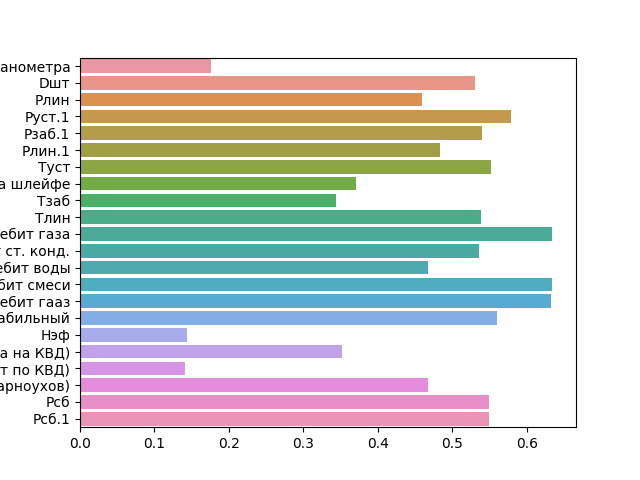
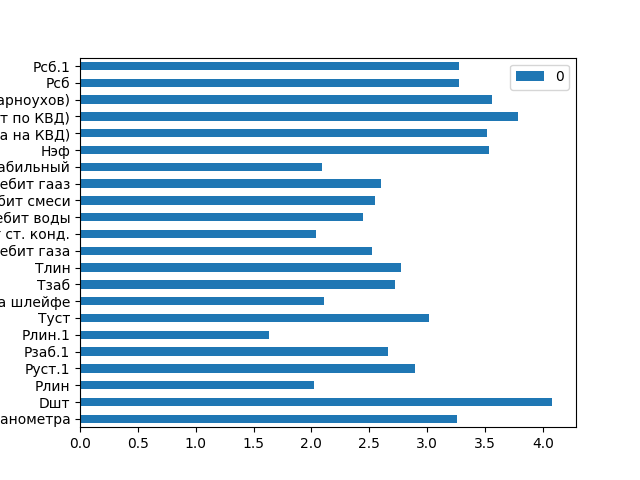
fixed gain ratio formula

diff --git a/dataset_analysis/dataset_analysis.py b/dataset_analysis/dataset_analysis.py
@@ -8,6 +8,72 @@ import pandas as pd
 import seaborn as sns
 from pandas import DataFrame
 
+def info(df: pd.DataFrame, sub_df: pd.DataFrame, target_name: str) -> float:
+    if df[target_name].nunique() == 0:
+        return 0
+    interval_count = 1 + int(math.log(df[target_name].nunique(), 2))
+    left_border = df[target_name].min()
+    right_border = df[target_name].max()
+    step = (right_border - left_border) / interval_count
+
+    vals_in_interval = [0] * interval_count
+    value_counts = sub_df[target_name].value_counts()
+    unq_vals = list(value_counts.index)
+    if step != 0:
+        for i in range(len(unq_vals)):
+            interval_index = int((unq_vals[i] - left_border) // step)
+            if interval_index == interval_count:
+                interval_index -= 1
+            vals_in_interval[interval_index] += value_counts[unq_vals[i]]
+
+    s = 0.0
+    for val in value_counts:
+        tmp = val / sub_df[target_name].count()
+        if tmp != 0:
+            s += tmp * math.log(tmp, 2)
+    return -s
+
+
+def info_a(df: pd.DataFrame, attr_name: str, target_name: str) -> float:
+    if df[attr_name].nunique() == 0:
+        return 0
+    interval_count = 1 + int(math.log(df[attr_name].nunique(), 2))
+    left_border = df[attr_name].min()
+    right_border = df[attr_name].max()
+    step = (right_border - left_border) / interval_count
+    left_borders = []
+    for i in range(interval_count):
+        left_borders.append(left_border + i * step)
+
+    s = 0.0
+    for border in left_borders:
+        sub_df = df.loc[((df[attr_name] >= border) & (df[attr_name] < border + step)) |
+                        (df[attr_name] == right_border)]
+        s += info(df, sub_df, target_name)
+    return s
+
+
+def split_info(df: pd.DataFrame, attr_name: str) -> float:
+    s = 0.0
+    for val in df[attr_name].value_counts():
+        tmp = val / df[attr_name].count()
+        s += tmp * math.log(tmp, 2)
+    return s
+
+
+def gain(df: pd.DataFrame, attr_name: str, target_name: str) -> float:
+    return info(df, df, target_name) - info_a(df, attr_name, target_name)
+
+
+def gain_ratio(df: pd.DataFrame, attr_name: str, target_name: str) -> float:
+    return gain(df, attr_name, target_name) / split_info(df, attr_name)
+
+def data_set_gain_ratio(df: pd.DataFrame, target_name: str, num_target_columns: int) -> pd.Series:
+    gain_ratio_list = []
+    for col_name in df.columns[0:-num_target_columns]:
+        gain_ratio_list.append(gain_ratio(df, col_name, target_name))
+    return pd.Series(gain_ratio_list, index=df.columns[0:-num_target_columns])
+
 PRINT_ALLOWED = True
 MAX_MISSES_PERCENTS = 45
 COLS = 1
@@ -96,75 +162,6 @@ def fill_blanks(df: DataFrame, df_stat: DataFrame, targets: List[str]) -> DataFr
                 df[col][i] = df_stat[col]['Median']
     return df
 
-
-# returns list like [a, b, c, d] with intervals [a, b], [b, c], [c, d]
-def get_sturges_intervals(minimum: float, maximum: float, count: int) -> list[float]:
-    ints_count = 1 + math.floor(math.log2(count))
-    if ints_count < 1 or maximum <= minimum:
-        return []
-    current = minimum
-    int_len = (maximum - minimum) / ints_count
-    ints = [minimum]
-    for i in range(ints_count):
-        current += int_len
-        ints.append(current)
-    ints[ints_count] = maximum
-    return ints
-
-
-def get_interval_id(ints: list[float], val: float):
-    ints_count = len(ints) - 1
-    for i in range(1, ints_count + 1):
-        if val <= ints[i]:
-            return i
-
-
-# calculates (H(y) - H(y|x)) / SplitInformation(y) ,
-# where x, y -- names of columns in the data frame
-def calc_information_gain_ratio(df: DataFrame, df_stat: DataFrame, y: str, x: str) -> float:
-    samples_count = len(df[x])
-    # calculating probabilities...
-    x_ints = get_sturges_intervals(df_stat[x]['Minimum'], df_stat[x]['Maximum'], samples_count)
-    # ex: [3276.0, 3360.5, 3445.0, 3529.5, 3614.0, 3698.5, 3783.0, 3867.5, 3952.0]
-    y_ints = get_sturges_intervals(df_stat[y]['Minimum'], df_stat[y]['Maximum'], samples_count)
-    ints_count = len(x_ints) - 1
-    p_x = {i: 0 for i in range(1, ints_count + 1)}
-    p_y = {i: 0 for i in range(1, ints_count + 1)}
-    for val in df[x].values:
-        p_x[get_interval_id(x_ints, val)] += 1
-    # ex: {1: 17, 2: 14, 3: 11, 4: 70, 5: 69, 6: 0, 7: 0, 8: 3}
-    for val in df[y].values:
-        p_y[get_interval_id(y_ints, val)] += 1
-    # scoring target entropy...
-    h_y = 0
-    for y_count in p_y:
-        current_p_y = y_count / samples_count
-        h_y -= current_p_y * math.log2(current_p_y)
-    # scoring conditional probabilities...
-    h_yx = 0
-    p_y_x = {i: {j: 0 for j in p_y.keys()} for i in p_x.keys()}
-    for row_num in df[x].keys():
-        x_int = get_interval_id(x_ints, df[x][row_num])
-        p_y_x[x_int][get_interval_id(y_ints, df[y][row_num])] += 1
-    for x_int in p_x.keys():
-        current_p_x = p_x[x_int] / samples_count
-        entropy = 0
-        for val in p_y_x[x_int].values():
-            if val == 0:
-                continue
-            current_p_y = val / samples_count
-            entropy -= current_p_y * math.log2(current_p_y)
-        h_yx += current_p_x * entropy
-    # calculating split information(y)
-    si = 0
-    for y_int in p_y.keys():
-        fraction = p_y[y_int] / samples_count
-        if fraction == 0:
-            continue
-        si -= fraction * math.log2(fraction)
-    return (h_y - h_yx) / si
-
-
 def combine_kgf(df: DataFrame) -> DataFrame:
     for row_num in df['КГФ.1'].keys():
         if not np.isnan(df['КГФ.1'][row_num]):
@@ -188,10 +185,8 @@ def remove_empty_target(df: DataFrame, targets: List[str]) -> DataFrame:
 
 
 def show_gain_ratio(df: DataFrame, df_stat: DataFrame, target: str, targets: list[str]):
-    df_igr = pd.DataFrame({
-        key: [calc_information_gain_ratio(df, df_stat, target, key)] for key in df.keys() if not targets.__contains__(key)
-    })
-    sns.barplot(df_igr, orient='horizontal') # Рсб, Рсб.1
+    df_igr = data_set_gain_ratio(df, target, len(targets)).to_frame()
+    df_igr.plot(kind = 'barh')
     plt.show()
 
 
@@ -220,10 +215,6 @@ def main():
     # Рзаб and Рзаб1 have almost the same correlations
     # Also Руст and Руст1
     # By IGR defined that Руст.1 > Руст, Рзаб.1 > Рзаб, Дебит воды > Дебит воды.1
-    target = 'КГФ'
-    obs_cols = ['Руст', 'Руст.1', 'Рзаб', 'Рзаб.1', 'Дебит воды', 'Дебит воды.1', 'Дебит газа', 'Дебит гааз', 'Pсб', 'Pсб.1']
-    for column in obs_cols:
-        print(calc_information_gain_ratio(df, df_stat, target, column))
     df = df.drop(['Рзаб', 'Руст', 'Дебит воды.1'], axis=COLS)
     df_stat = df_stat.filter(items=df)
 
